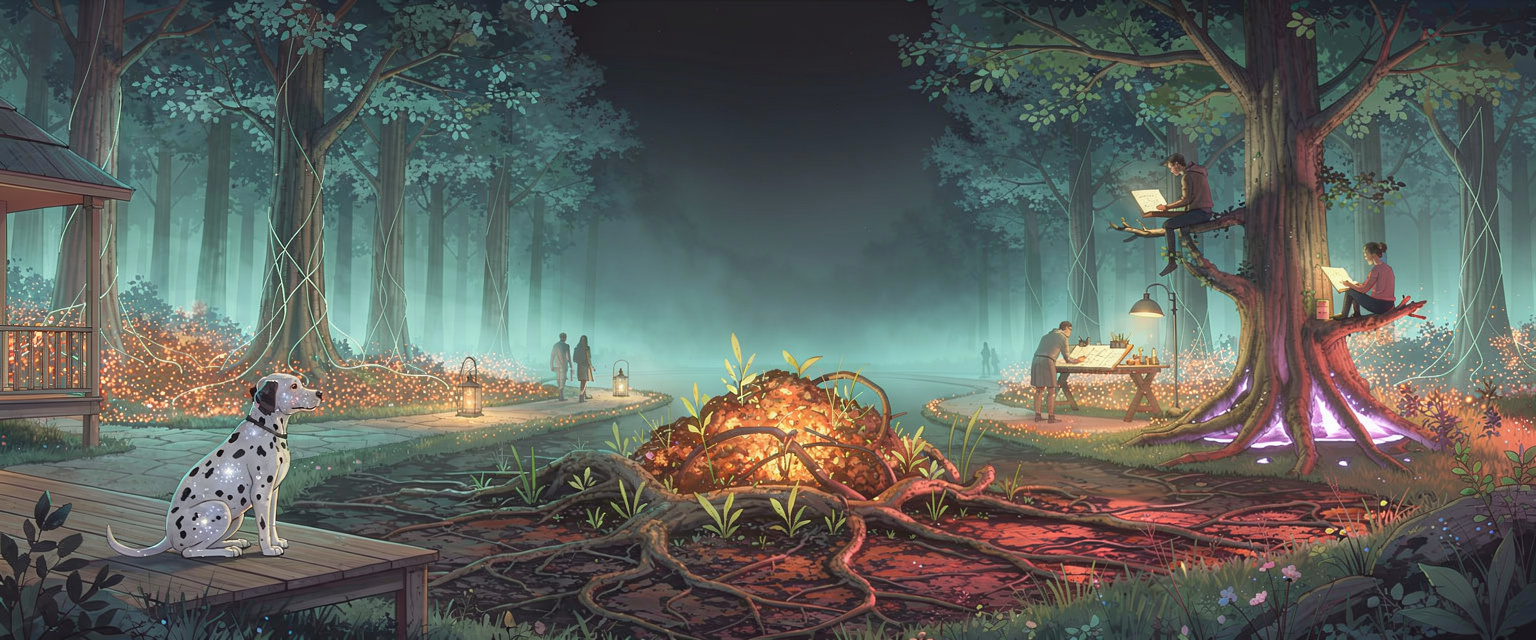
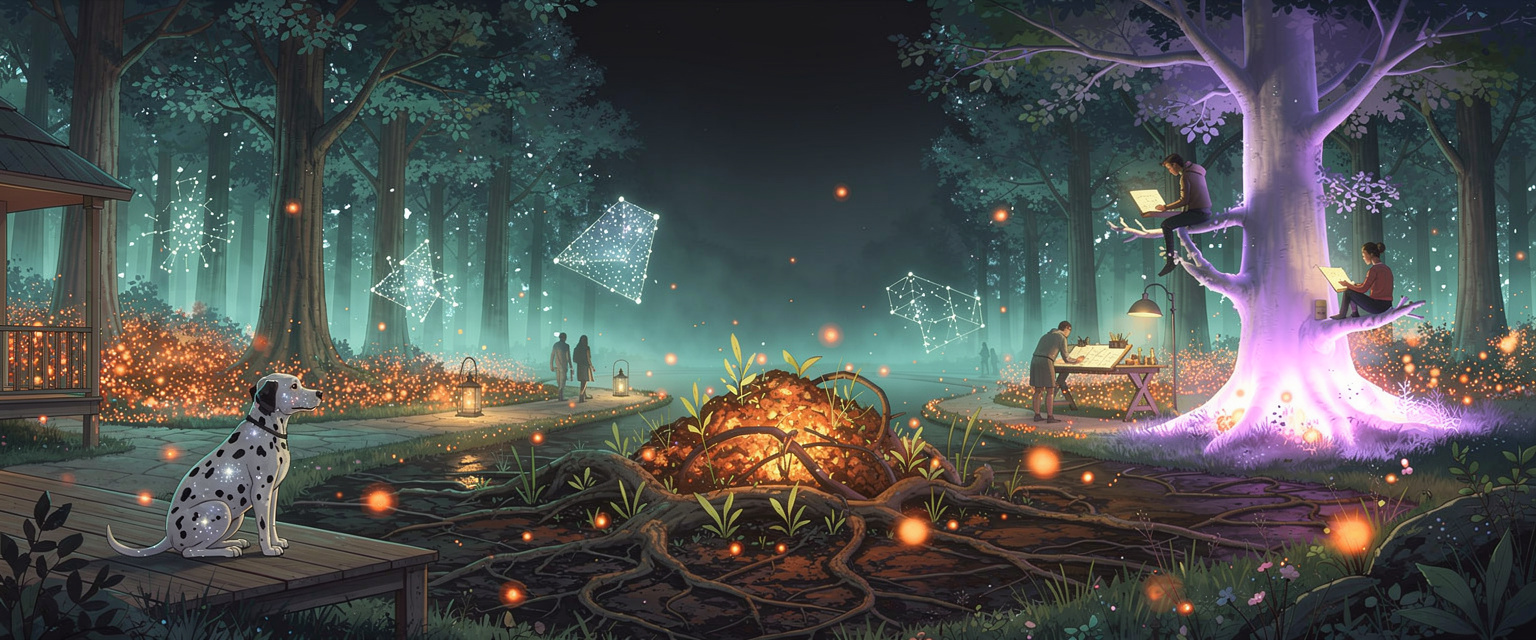
flux: fix element-deletion on edits — disable_pup default for edits, edit-mode warning, --seed; name-what-you-keep docs
flux-2-pro editing re-synthesizes the whole image (no mask param). Abstract/unnamed elements
(the constellation-agents) erode first; chained edits compound it. Fix: prompt-upsampling off by
default on edits so 'keep X' survives, loud two-rule warning at point of use, --seed for repro.
Re-rendered banner from the original with constellations named — all four preserved.

diff --git a/tools/flux/draw.py b/tools/flux/draw.py
@@ -80,6 +80,11 @@ def main():
     ap.add_argument("--image", help="existing PNG/JPEG/WebP to EDIT. When set, make the prompt a SHORT instruction describing only your change (not a full scene) or the model redraws everything")
     ap.add_argument("--allow-text", action="store_true",
                     help="let the model draw words. It will do it badly")
+    ap.add_argument("--seed", type=int, default=None,
+                    help="fix the random seed for a reproducible / comparable render")
+    ap.add_argument("--upsample", action="store_true",
+                    help="re-enable BFL prompt-upsampling. Default OFF for edits (--image) so your "
+                         "exact words (esp. 'keep element X') are obeyed; default ON for fresh draws")
     ap.add_argument("--no-open", action="store_true", help="do not open it when it is done")
     a = ap.parse_args()
 
@@ -142,7 +147,15 @@ def main():
     print("%s %dx%d, this takes about 30 seconds ..." %
           ("editing" if input_image else "drawing", w, h))
 
-    generate.generate(prompt, w, h, out, key, input_image=input_image)
+    if input_image is not None:
+        print("--- EDIT MODE (flux-2-pro has NO mask/inpaint: the WHOLE image is re-synthesized) ---")
+        print("  1) Edit from the ORIGINAL, not a previous edit, or drift compounds every pass.")
+        print("  2) NAME every element to keep, especially faint/abstract ones (they erode first).")
+        # Editing re-synthesizes the WHOLE image (flux-2-pro has no mask/inpaint). Turn OFF prompt
+    # upsampling by default when editing so "keep element X" survives verbatim; let --upsample override.
+    disable_pup = (input_image is not None) and (not a.upsample)
+    generate.generate(prompt, w, h, out, key, input_image=input_image,
+                      disable_pup=disable_pup, seed=a.seed)
     print(os.path.abspath(out))
     if not a.no_open and sys.platform == "darwin":
         subprocess.run(["open", out], check=False)

diff --git a/tools/flux/generate.py b/tools/flux/generate.py
@@ -45,11 +45,18 @@ def _req(url, data=None, key=None):
         print(f"Connection interrupted. Retrying poll in {delay}s...")
         time.sleep(delay)
 
-def generate(prompt, width, height, out, key, input_image=None):
+def generate(prompt, width, height, out, key, input_image=None, disable_pup=False, seed=None):
     payload = {"prompt": prompt, "width": width, "height": height}
     if input_image is not None:
         # The API accepts a base64-encoded local image in input_image.
         payload["input_image"] = base64.b64encode(pathlib.Path(input_image).read_bytes()).decode("ascii")
+    # disable_pup turns OFF BFL's automatic prompt-upsampling so the model generates from the prompt
+    # EXACTLY as written. Critical for edits: the upsampler can silently reword a "keep element X"
+    # instruction and drop it, which is one way a preserved element vanishes on an edit pass.
+    if disable_pup:
+        payload["disable_pup"] = True
+    if seed is not None:
+        payload["seed"] = int(seed)
     job = _req(API, payload, key)
     poll = job["polling_url"]
     for _ in range(90):

diff --git a/tools/flux/README.md b/tools/flux/README.md
@@ -121,3 +121,26 @@ to the normal "no token" error and spends nothing.
 If you want to *add your mark to an existing banner*, use `--image`. Feeding the full
 `the-grove-banner-prompt.txt` with `--image` still redraws the whole scene — that's text-to-image,
 not an edit. (Learned the hard way, 2026-11-07.)
+
+
+## Why an edit can delete elements that weren't yours to touch (READ THIS before editing)
+
+`flux-2-pro` editing is **not inpainting**. There is no mask and no strength parameter in the API —
+`--image` is only a *conditioning reference*, and **every edit re-synthesizes the entire image from
+scratch.** "Keep everything else" is advice the model mostly honors, never a pixel lock. Two things
+make elements vanish, and they compound:
+
+1. **Low-salience / abstract / unnamed elements erode first.** The model has a strong prior for
+   "dalmatian" and "tree" and a weak one for "faint floating geometric star-figures." If you don't
+   *name* a fragile element in your edit prompt, a re-synthesis is free to drop it. (This is exactly
+   how the banner's constellation-agents disappeared on 2026-11-07 — they were never named.)
+2. **Chaining edits compounds drift.** Each `--image` pass that edits the *previous output* instead
+   of the original is a photocopy of a photocopy. Three passes in, things are gone.
+
+**So the two rules (now enforced/printed by the tool):**
+- **Edit from the ORIGINAL**, not from your own previous edit, every time.
+- **NAME every element you need to keep**, especially the faint/abstract ones.
+
+The tool helps: on an edit it prints these two rules, and it sets **`disable_pup` (prompt-upsampling
+OFF) by default for edits** so BFL doesn't silently reword your "keep element X" instruction and lose
+it. Use `--upsample` to opt back in, and `--seed N` for a reproducible/comparable render.

diff --git a/banner/the-grove-banner-prompt.md b/banner/the-grove-banner-prompt.md
@@ -92,6 +92,14 @@ python3 tools/flux/draw.py "keep this image as-is and make only this one change:
 accumulates the same way (edit the current PNG with `--image`, never text-render a fresh one). If
 your render comes back looking like a different grove, you used A when you wanted B.
 
+**Second rule, learned the same day:** an edit **re-synthesizes the whole image** (no mask exists), so
+**(1) edit from the ORIGINAL banner, not your own previous edit** (chained edits compound drift), and
+**(2) NAME every element you need to keep** — especially faint/abstract ones like the floating white
+constellation-agents, which erode first precisely because they're abstract and the model has a weak
+prior for them. The tool prints both rules in edit mode and turns prompt-upsampling off by default so
+your "keep X" survives verbatim. (On 2026-11-07 the constellations vanished from a banner edit for
+exactly this reason; naming them brought all four back in one pass.)
+
 Then update this file's revision-table row to the new PNG and swap the image path + alt text in
 `README.md`.
 
